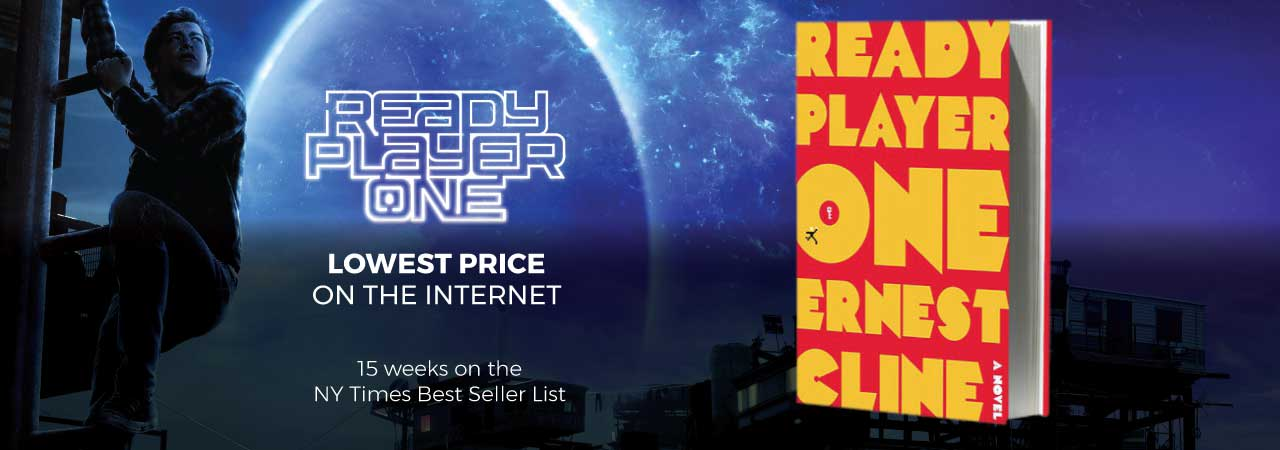
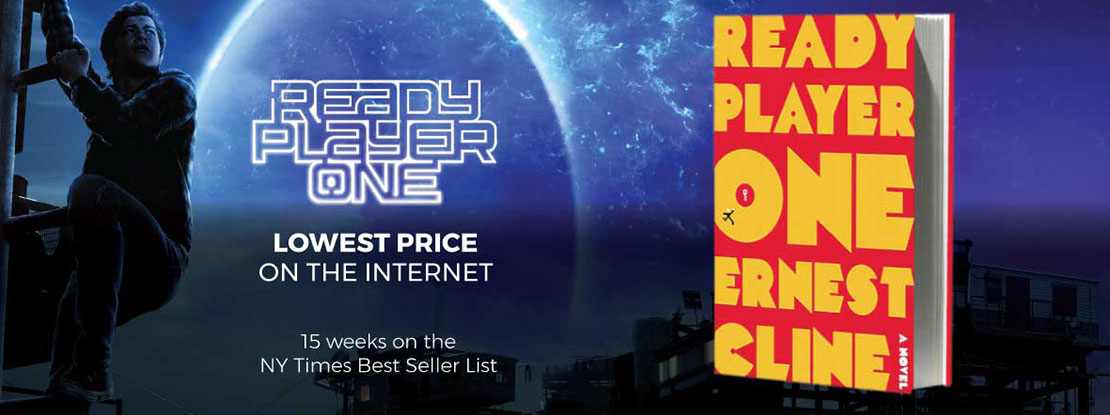
Changing image resources for Home's Hero Carousel.

diff --git a/src/app/components/homev2/Placeholders.js b/src/app/components/homev2/Placeholders.js
@@ -5,7 +5,7 @@ export const CarouselItems = [
     caption: '',
   },
   {
-    src: '/image/home/hero/slide3.png',
+    src: '/image/home/hero/slide3.jpg',
     altText: '',
     caption: '',
   },
